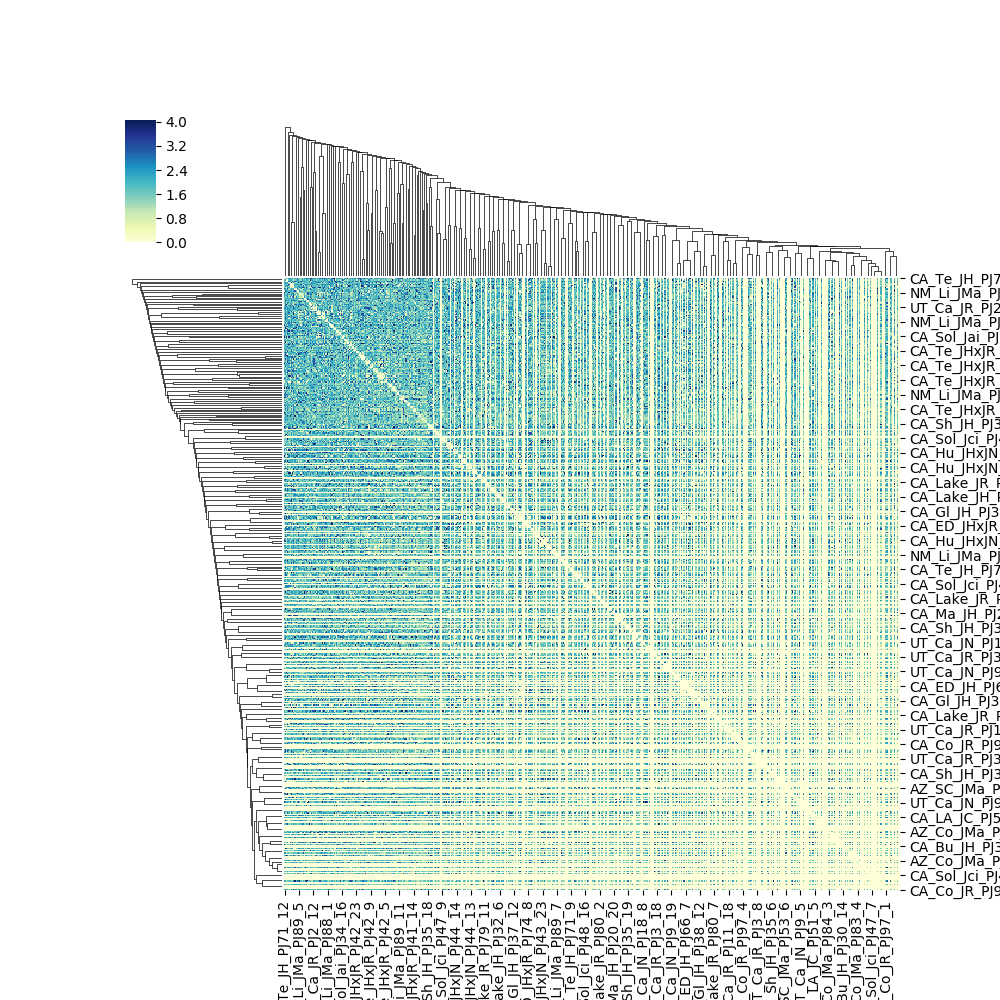
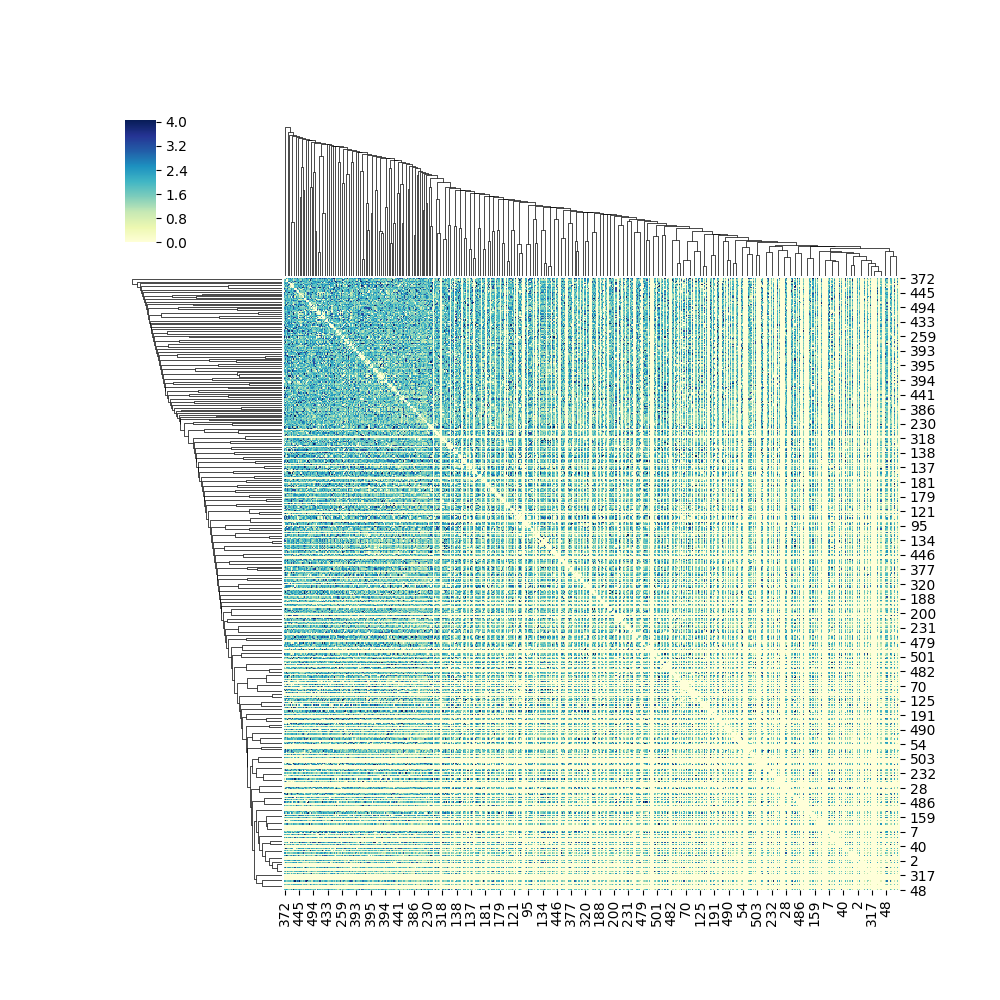
got fill with knn working, error with mice

Changed region(s): [[0.899, 0.279, 1.0, 0.899], [0.279, 0.899, 0.899, 1.0]]

diff --git a/scripts/fill_na.py b/scripts/fill_na.py
@@ -55,24 +55,32 @@ def test_w_clustering(matrix, labels, link, path):
 
     print('Calculating Chi-Squared Correlation...')
     comp = pd.crosstab(df['state_id'], df['cluster_id'])
-    #stat, p, dof = chi2_contingency(comp)
-    #print('Statistic: ', stat, ', P-value: ', p, ', Degrees of Freedom: ', dof, sep='')
+    stat, p, dof, _ = chi2_contingency(comp)
+    print('Statistic: ', stat, ', P-value: ', p, ', Degrees of Freedom: ', dof, sep='')
 
 print('Reading data...')
-data = pd.read_csv('data/distance_matrix_wtb_male_female.csv', index_col=0)
+df = pd.read_csv('data/distance_matrix_wtb_male_female.csv', index_col=0)
+data = df.fillna(0)
 labels = data.columns.tolist()
 #print(data)
 #print(data.isnull().sum(axis=1).tolist()) # a LOT of missing values
 
-LINKAGE = 'single'
+#baseline comparison
+print('Testing baseline...')
+for l in ['single', 'weighted', 'ward', 'average', 'complete']:
+    test_w_clustering(data.values.tolist(), labels, l, 'fill_0/'+l+'.png')
 
 print('Filling NAs with fast_knn...')
 #TRYING fast_knn
 sys.setrecursionlimit(50000)
-imputed_training = fast_knn(data.values, k=10)
-test_w_clustering(imputed_training, labels, LINKAGE, 'fill_knn/'+LINKAGE+'.png')
+imputed_training = fast_knn(df.values, k=10)
 
-print('Filling NAs with mice...')
-#TRYING mice
-imputed_training = mice(data.values)
-test_w_clustering(imputed_training, LINKAGE, 'fill_mice/'+LINKAGE+'.png')
+for l in ['single', 'weighted', 'ward', 'average', 'complete']:
+    test_w_clustering(imputed_training, labels, l, 'fill_knn/'+l+'.png')
+
+###Throwing error: "numpy.linalg.LinAlgError: SVD did not converge in Linear Least Squares"
+# print('Filling NAs with mice...')
+# #TRYING mice
+# imputed_training = mice(df.values)
+# for l in ['single', 'weighted', 'ward', 'average', 'complete']:
+#     test_w_clustering(imputed_training, l, 'fill_mice/'+l+'.png')

diff --git a/scripts/test-cluster.py b/scripts/test-cluster.py
@@ -71,3 +71,7 @@ for elem in labels:
 
 print(states)
 df['state_id'] = states
+
+comp = pd.crosstab(df['state_id'], df['cluster_id'])
+stat, p, dof, _ = stats.chi2_contingency(comp)
+print('Statistic: ', stat, ', P-value: ', p, ', Degrees of Freedom: ', dof, sep='')
